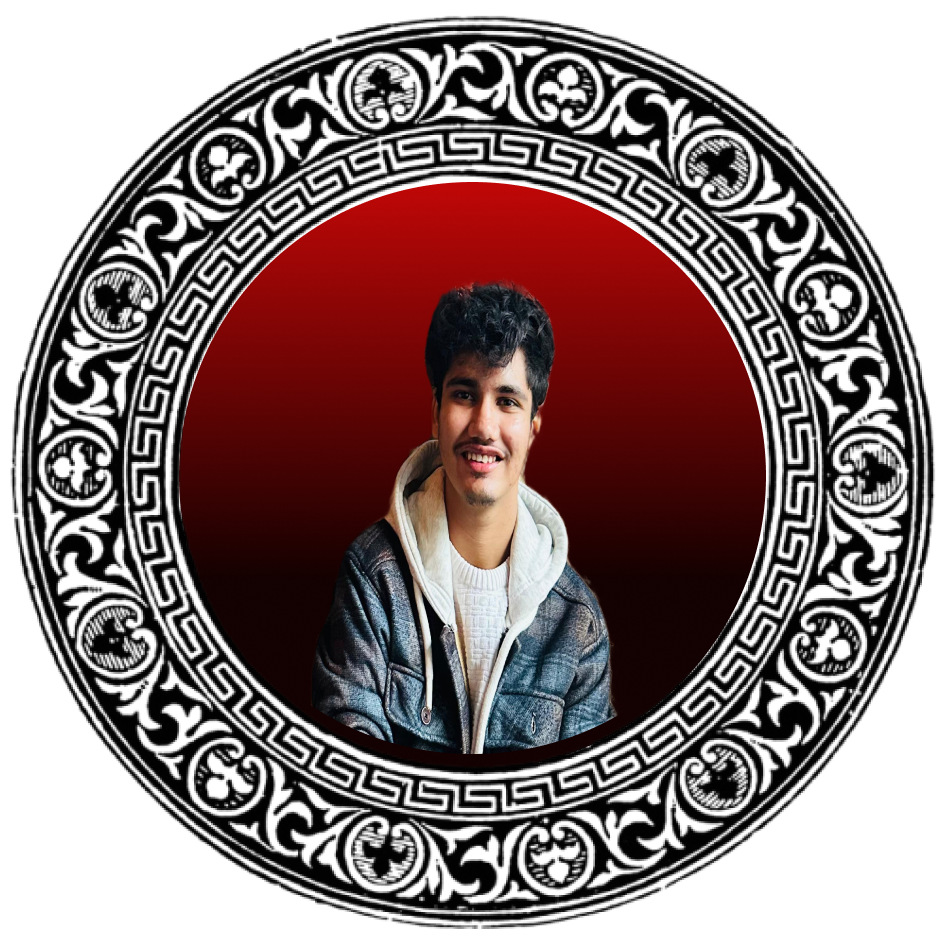
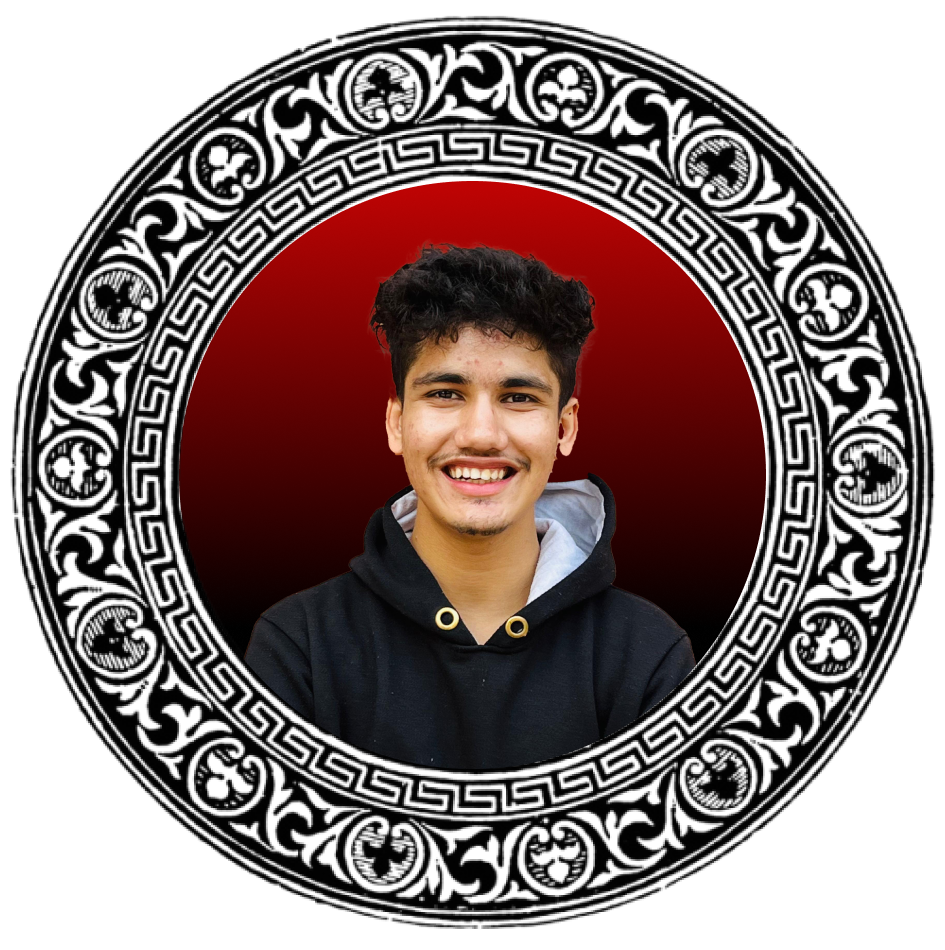
Add Teampage

Changed region(s): [[0.2455, 0.2442, 0.7365, 0.8242]]

diff --git a/src/pages/Team.jsx b/src/pages/Team.jsx
@@ -10,13 +10,13 @@ export default function Team() {
     return (
       <div className="pt-20 py-10 flex flex-col bg-gradient-to-r from-[#301F0E] to-[#FDA605]  justify-center items-center">
       {/* Core Cultural Council */}
-          <div className="bg-[url('/images/Group.png')] bg-cover w-[80%] lg:w-[50%]  bg-no-repeat flex  justify-center lg:justify-around" >
-              <h3 className="text-black font-semibold text-2xl font-protest py-4 justify-center  ">Core Cultural Council </h3>
+          <div className="bg-[url('/images/Group.png')] bg-cover w-[85%] lg:w-[50%]  bg-no-repeat flex  justify-center lg:justify-around" >
+              <h3 className="text-black font-semibold text-3xl font-protest py-4 justify-center  ">Core Cultural Council </h3>
               
           </div>
 
 
-          <div>
+          <div className="my-3">
             
           <div className="flex flex-wrap justify-center gap-3 lg:gap-10 px-2">
               {Teams.core.map((item, index) => (
@@ -27,15 +27,15 @@ export default function Team() {
           </div>
 
         {/* divider */}
-          <div className="px-4 py-8 w-[90%] lg:w-[30%] flex justify-center">
+          <div className="px-4 py-12 w-[90%] lg:w-[30%] flex justify-center">
                 <img src="/images/divider2.png" alt="" loading="lazy" />
           </div>
 
         {/* Team Heads */}
-          <div className="bg-[url('/images/Group.png')] bg-cover w-[80%] lg:w-[50%]  bg-no-repeat flex  justify-center lg:justify-around" >
-              <h3 className="text-black font-semibold text-2xl font-protest py-4 justify-center  ">Team Heads </h3>
+          <div className="bg-[url('/images/Group.png')] bg-cover w-[85%] lg:w-[50%]  bg-no-repeat flex  justify-center lg:justify-around" >
+              <h3 className="text-black font-semibold text-3xl font-protest py-4 justify-center  ">Team Heads </h3>
           </div>
-          <div>
+          <div className="my-3">
           <div className="flex flex-wrap justify-center gap-3 lg:gap-10 px-2">
               {Teams.Heads.map((item, index) => (
               <TeamComp key={index} img={item.img} name={item.name} post={item.post} />
@@ -44,15 +44,15 @@ export default function Team() {
           </div>
 
         {/* divider */}
-          <div className="px-4 py-8 w-[90%] lg:w-[30%] flex justify-center">
+          <div className="px-4 py-14 w-[90%] lg:w-[30%] flex justify-center">
                 <img src="/images/divider2.png" alt="" loading="lazy" />
           </div>
 
         {/* Students Council */}
-          <div className="bg-[url('/images/Group.png')] bg-cover w-[80%] lg:w-[50%] bg-no-repeat flex  justify-center lg:justify-around" >
-              <h3 className="text-black font-semibold text-2xl font-protest py-4 justify-center  ">Student Council </h3>
+          <div className="bg-[url('/images/Group.png')] bg-cover w-[85%] lg:w-[50%] bg-no-repeat flex  justify-center lg:justify-around" >
+              <h3 className="text-black font-semibold text-3xl font-protest py-4 justify-center  ">Student Council </h3>
           </div>
-          <div>
+          <div className="my-3">
           <div className="flex flex-wrap justify-center gap-3 lg:gap-10 px-2">
               {Teams.Suc.map((item, index) => (
               <TeamComp key={index} img={item.img} name={item.name} post={item.post} />
@@ -62,7 +62,7 @@ export default function Team() {
 
 
         {/* divider */}
-          <div className="px-4 py-8 w-[90%] lg:w-[30%] flex justify-center">
+          <div className="px-4 py-10 w-[90%] lg:w-[30%] flex justify-center">
                 <img src="/images/divider2.png" alt="" loading="lazy" />
           </div>
 

diff --git a/public/images/Team/teamData.js b/public/images/Team/teamData.js
@@ -5,12 +5,12 @@ const core = [
         post: "Cultural Secretary"
     },
     {
-        name: "Aryan Gurjar",
-        img: "../../images/Team/Aryan_Gurjar.png",
+        name: "Yash Chandola",
+        img: "../../images/Team/Yash_Chandola.png",
         post: "Cultural Secretary"
     },
     {
-        name: "Yash Chandola",
+        name: "Aryan Gurjar",
         img: "../../images/Team/Aryan_Gurjar.png",
         post: "Mentor"
     },
@@ -20,15 +20,16 @@ const core = [
         post: "Alumni Mentor"
     },
     {
-        name: "Sudesh Chahar",
-        img: "../../images/Team/Sudesh_Chahar.png",
-        post: "OC Event Manager"
-    },
-    {
         name: "Ayush Jain",
         img: "../../images/Team/Ayush_Jain.png",
         post: "OC Team Leader"
     },
+    {
+        name: "Sudesh Chahar",
+        img: "../../images/Team/Sudesh_Chahar.png",
+        post: "OC Event Manager"
+    },
+    
     {
         name: "Harshit Bhalothia",
         img: "../../images/Team/Harshit_Bhalothia.png",
@@ -36,8 +37,8 @@ const core = [
     },
     {
         name: "Himanshu Lamba",
-        img: "../../images/Team/Harshit_Bhalothia.png",
-        post: "OC D&V Incharge"
+        img: "../../images/Team/Himanshu_Lamba.png",
+        post: "OC Discipline & Volunteer Incharge"
     }
 ];
 
@@ -75,12 +76,12 @@ const core = [
     {
         name: "Deepan Khatri",
         img: "../../images/Team/Deepan_Khatri.png",
-        post: "Hosp & Accom Head"
+        post: "Hospitality & Accommodation Head"
     },
     {
         name: "Adrash Singh",
         img: "../../images/Team/Adrash_Singh.png",
-        post: "Hosp & Accom Head"
+        post: "Hospitality & Accommodation Head"
     },
     {
         name: "Pralakshi Baishya",
@@ -111,8 +112,8 @@ const core = [
         post: "President"
     },
     {
-        name: "Manyank",
-        img: "../../images/Team/Priyanshu.png",
+        name: "Mayank",
+        img: "../../images/Team/Mayank.png",
         post: "General Secretary"
     },
 ];

diff --git a/src/components/Footer.jsx b/src/components/Footer.jsx
@@ -30,8 +30,8 @@ export default function Footer() {
     ]
 
     return (
-        <footer className='px-5 pt-8 pb-2 relative bg-gradient-to-t from-black/40 to-[#700409]/90  z-20'>
-            <div className="flex items-start justify-between lg:justify-around">
+        <footer className='px-5 pt-10 pb-4 relative bg-gradient-to-t from-black/40 to-[#700409]/90  z-20'>
+            <div className="flex items-start justify-between lg:justify-around py-1">
                 <div className="address">
                     <h1 className='name text-2xl font-protest text-[#D3A84C]'>DDUC</h1>
                     <p className=" font-protest text-xs  text-white ">DEEN DAYAL UPADHYAYA COLLEGE. DELHI UNIVERSITY,</p>
@@ -43,10 +43,10 @@ export default function Footer() {
                 </div>
             </div>
 
-            <div className="social-media-links mt-6 mx-auto w-fit flex items-center gap-7">
+            <div className="social-media-links my-10 mx-auto w-fit flex items-center gap-7">
                 {socialMediaLinks.map((link, index) => (
                     <a href={link.link} key={index} className="text-white">
-                        <img src={link.imgUrl} className='h-8 w-auto object-cover' alt={link.name} />
+                        <img src={link.imgUrl} className='h-8 w-auto object-cover animate-pulse' alt={link.name} />
                     </a>
                 ))}
             </div>
